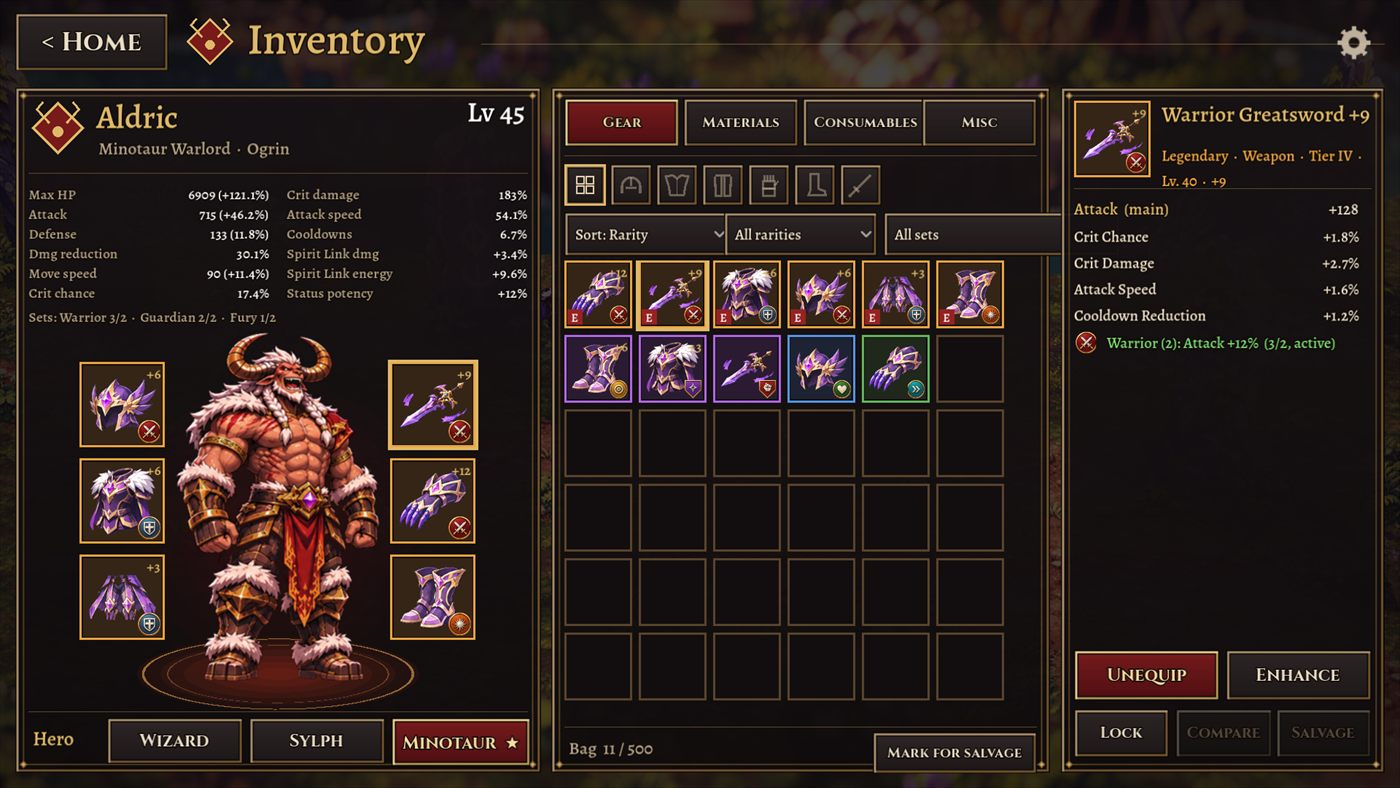
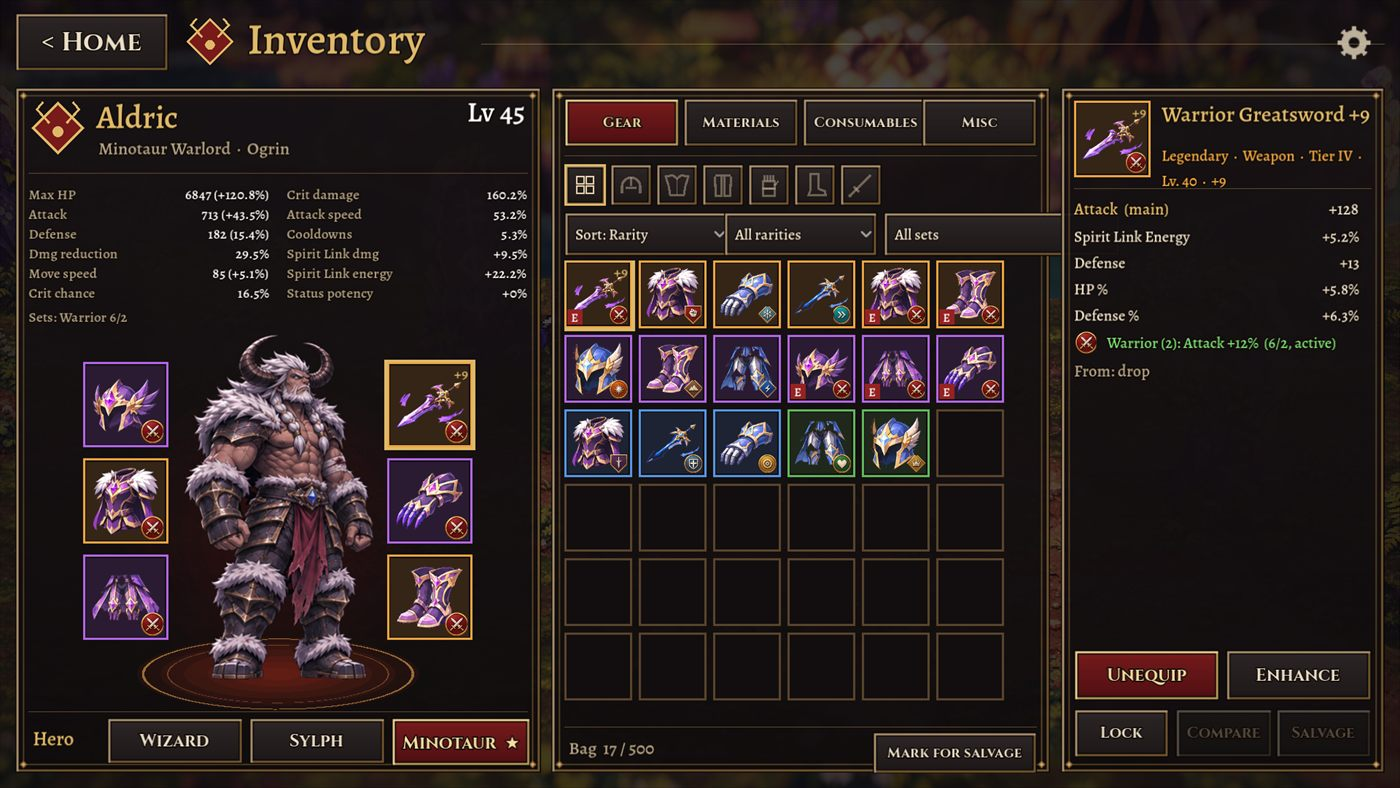
Gear screen with the new Minotaur; muted silver UNBOUND title (header, hero, footer)

diff --git a/index.html b/index.html
@@ -61,7 +61,7 @@
 
 <header class="site-header" id="top">
   <div class="header-inner">
-    <a class="logo" href="#top" aria-label="Unbound, back to top"><img class="logo-img" src="assets/logo-wordmark-sm.png" width="600" height="238" alt="Unbound"></a>
+    <a class="logo" href="#top" aria-label="Unbound, back to top"><img class="logo-img" src="assets/logo-wordmark-sm-muted.png" width="600" height="238" alt="Unbound"></a>
     <button class="nav-toggle" aria-expanded="false" aria-controls="site-nav" aria-label="Open menu"><span></span><span></span><span></span></button>
     <nav id="site-nav" class="site-nav" aria-label="Main">
       <ul>
@@ -83,7 +83,7 @@
 <section class="hero" aria-labelledby="hero-title">
   <img class="hero-img" src="assets/hero-banner.jpg" width="1536" height="1024" alt="The Wizard, the Minotaur and the Sylph stand together in a misty ruined land under a violet rift, each with their bound Spirit rising behind them in blue, red and violet light.">
   <div class="hero-copy">
-    <h1 id="hero-title" class="hero-logo"><img src="assets/logo-wordmark.png" width="1200" height="476" alt="Unbound"></h1>
+    <h1 id="hero-title" class="hero-logo"><img src="assets/logo-wordmark-muted.png" width="1200" height="476" alt="Unbound"></h1>
     <p class="hero-tag">Bound to a Spirit. Unbound by fate.</p>
     <p class="hero-sub">Every hero. Every Spirit. Your build.</p>
     <div class="hero-btns">
@@ -272,7 +272,7 @@
 
 <footer class="site-footer">
   <div class="foot-inner">
-    <a class="logo logo-sm" href="#top" aria-label="Unbound, back to top"><img class="logo-img" src="assets/logo-wordmark-sm.png" width="600" height="238" alt="Unbound"></a>
+    <a class="logo logo-sm" href="#top" aria-label="Unbound, back to top"><img class="logo-img" src="assets/logo-wordmark-sm-muted.png" width="600" height="238" alt="Unbound"></a>
     <p class="foot-tag">Bound to a Spirit. Unbound by fate.</p>
     <nav aria-label="Footer">
       <ul>
